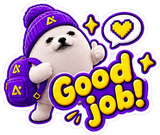
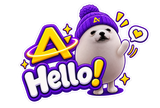
Липкая шапка, iOS-свайп в панели преподавателя, новые фирменные иконки
По просьбе Виктории:

1. Шапка сайта (.cat-header) теперь прилипает к верху при скролле —
   и на лендинге ученика, и в панели преподавателя, и на страницах
   курсов (используют один и тот же page() в build.mjs).

2. Стикер в шапке ученика заменён на тюленя «Hello!» (21_hello_seal.png)
   — прошлый выбор (тюлень «Good job!») не подошёл. Шапка учителя
   осталась как есть — цветок ANGLE, Виктория подтвердила.

3. iOS-свайп вправо (и кнопка «Назад» браузера) теперь листает экраны
   панели преподавателя так же, как на странице курса у ученика: раньше
   вся навигация была чисто JS-состоянием без записей в историю браузера,
   поэтому жест назад просто уводил со страницы панели целиком, а не
   поднимал на уровень выше. Теперь каждый переход на экран глубже кладёт
   снимок состояния в history.pushState, а popstate (от свайпа, от кнопки
   браузера или от клика по видимой кнопке «← Назад» — она теперь просто
   зовёт history.back()) восстанавливает ровно предыдущий снимок. Та же
   логика на всякий случай добавлена и в папки-плитки на странице курса
   (groupFolderScript) — раньше там при заходе в юнит тоже не оставалось
   записи в истории.

4. Иконка «Academy Stars» (значок перед названием семьи курсов, и на
   лендинге, и в панели преподавателя) заменена с юникод-⭐ на фирменный
   стикер «You're a star!» (IMG_2083.PNG).

5. Иконка семьи «Gateway» заменена с юникод-🌍 на настоящий логотип
   Gateway B2 (IMG_2082.PNG).
[…]

diff --git a/assets/catalog.css b/assets/catalog.css
@@ -80,8 +80,9 @@ html, body{
 /* ---- шапка каталога ---- */
 
 .cat-header{
-  position: relative;
-  z-index: 2;
+  position: sticky;
+  top: 0;
+  z-index: 10;
   color: #fff;
   padding: 32px 24px 18px;
   margin: 0 0 16px;
@@ -124,6 +125,9 @@ html, body{
   gap: 8px;
   text-shadow: 0 1px 8px rgba(0,0,0,0.4);
 }
+/* фирменный стикер перед названием семьи курсов (Academy Stars, Gateway) —
+   вместо юникод-эмодзи, см. familyIconFor в build.mjs */
+.family-icon{ height: 20px; width: auto; display: block; }
 .tile-grid{
   display: grid;
   grid-template-columns: repeat(auto-fill, minmax(104px, 1fr));
